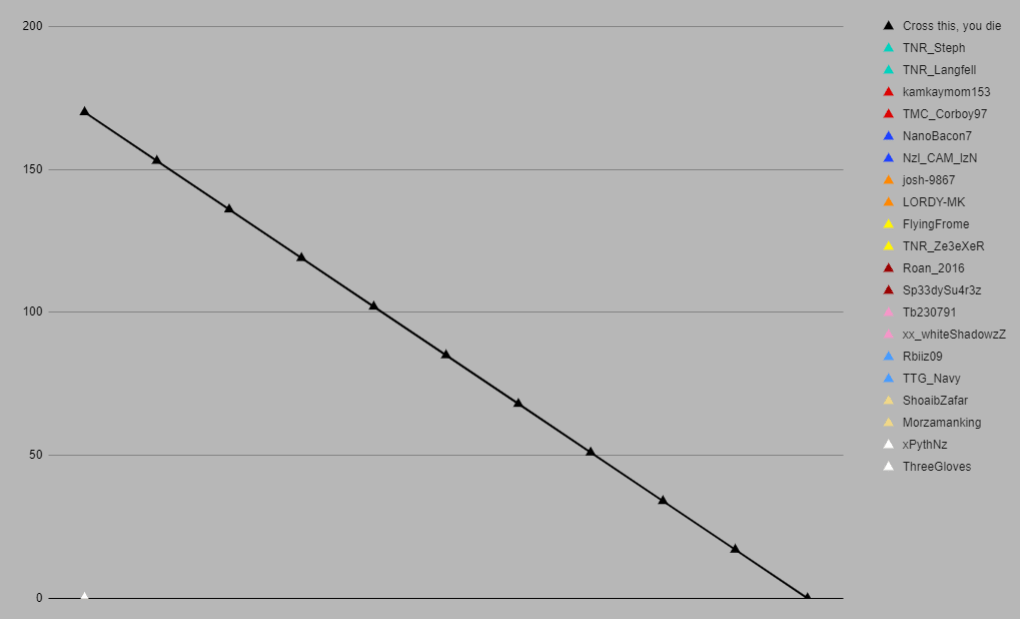
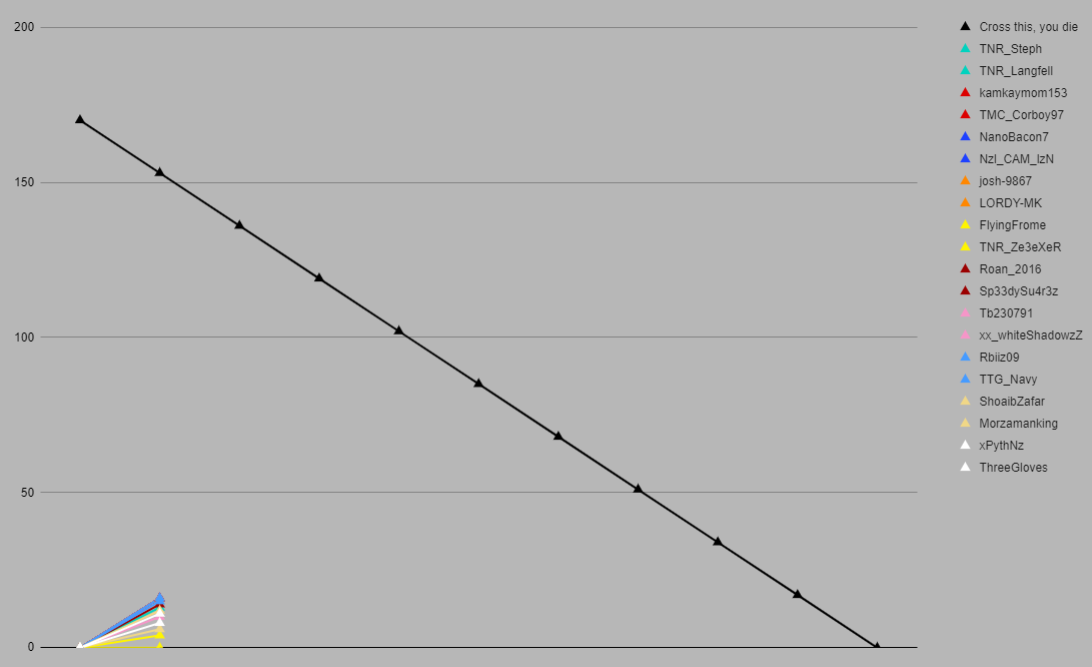
F3/4/5 standings.

diff --git a/_leagues/f4-s25.md b/_leagues/f4-s25.md
@@ -6,9 +6,9 @@ permalink: '/f12019/:categories/:title'
 category: s25
 day: Sunday
 time: 8pm GMT
-drivers: ''
-drivers_2: /f12019/s25/F4/graph.png
-constructors: /f12019/s25/F4/f4_c.jpg
+drivers: '/f12019/s25/F4/F4_Top_10.jpg'
+drivers_2: '/f12019/s25/F4/F4_Drivers_Bahrain.jpg'
+constructors: '/f12019/s25/F4/F4_Constructors_Bahrain.jpg'
 graphics:
   standings: /f12019/s24/f4/F4-Standings.png
   tv: /f12019/s24/f4/Live-F4.png

diff --git a/_leagues/f5-s25.md b/_leagues/f5-s25.md
@@ -6,9 +6,9 @@ permalink: '/f12019/:categories/:title'
 category: s25
 day: Sunday
 time: 8pm GMT
-drivers: ''
+drivers: '/f12019/s25/F5/c13b8b88dac63ee013faa8409b1d0843.png'
 drivers_2: ''
-constructors: /f12019/s25/f5/f5_c.png
+constructors: '/f12019/s25/F5/e697ac6105ce7f3c976319f5a966b2d8.png'
 graphics:
   standings: /f12019/s24/f5/F5-Standings.png
   tv: /f12019/s24/f5/Live-F5.png

diff --git a/_leagues/f3-s25.md b/_leagues/f3-s25.md
@@ -6,8 +6,8 @@ permalink: '/f12019/:categories/:title'
 category: s25
 day: Sunday
 time: 8pm GMT
-drivers: ''
-constructors: ''
+drivers: '/f12019/s25/F3/Screenshot_20200310-185902_Twitter.jpg'
+constructors: '/f12019/s25/F3/Screenshot_20200310-185902_Twitter.jpg'
 graphics:
   standings: /f12019/s24/f3/F3-Standings.png
   tv: /f12019/s24/f3/Live-F3.png
